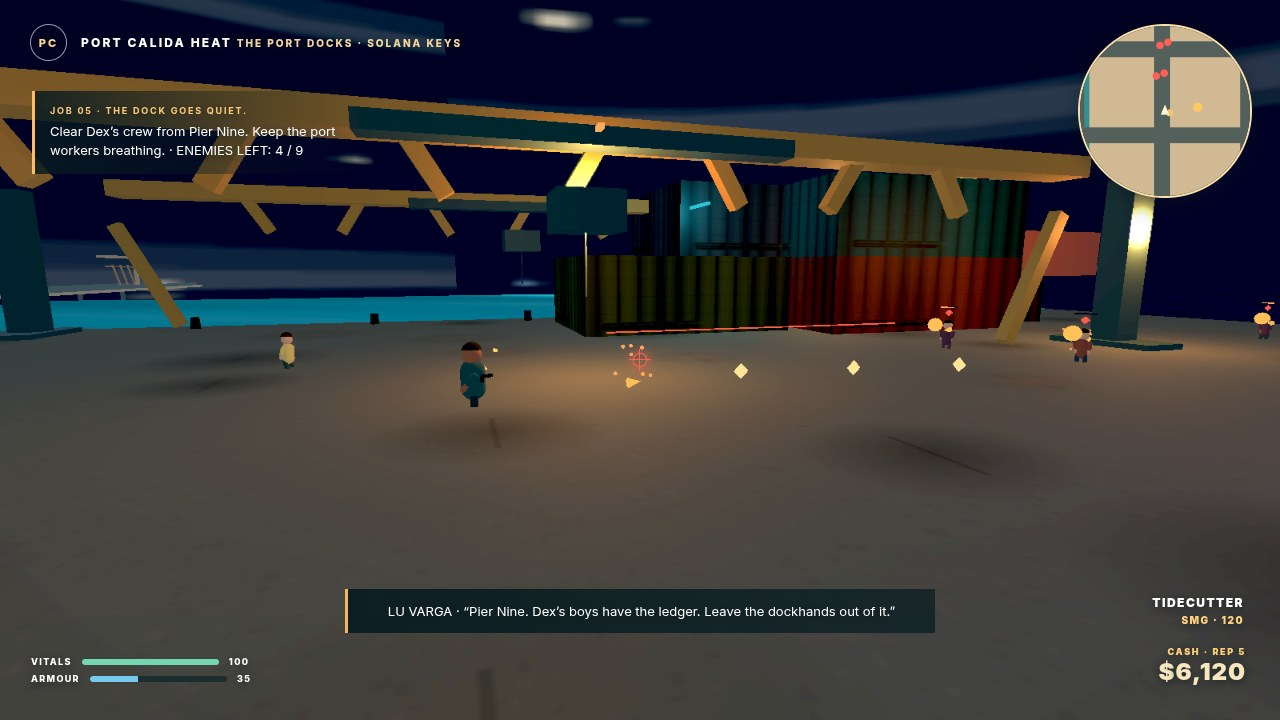
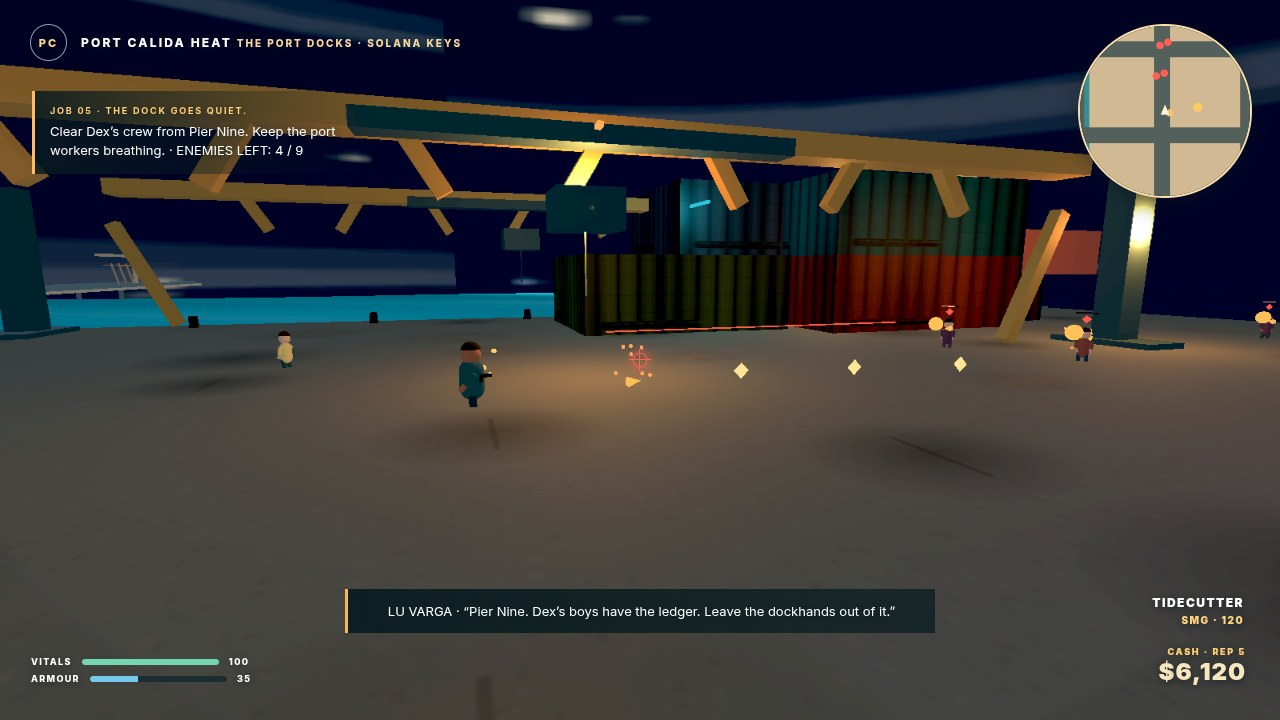
Restore pink sunset colour pipeline from 44f178a (keep coupe fix, dock night lights)

diff --git a/game/src/world/skyLighting.js b/game/src/world/skyLighting.js
@@ -2,29 +2,28 @@ import * as THREE from 'three';
 
 const presets = {
   day: {
-    sky: ['#064a86', '#1679b6', '#60afd0', '#e9d1a8', '#8ab0ba'],
-    fog: 0xb9cfd0, fogDensity: .00012, ambient: .9, sun: 3.5,
-    hemiSky: 0xaed8ee, hemiGround: 0x665c4d, sunColor: 0xfff0c2, exposure: 1.08,
+    sky: ['#28577a', '#79aab8', '#d2e0d9', '#f4d0a1', '#29495d'],
+    fog: 0xc3d3d0, fogDensity: .00048, ambient: .82, sun: 3.1,
+    hemiSky: 0xa9d5ee, hemiGround: 0x53624f, sunColor: 0xffe0a1,
   },
   golden: {
-    sky: ['#334f66', '#7e968c', '#477f9d', '#e3a873', '#ffc778', '#91aeb6', '#12375f'],
-    skyStops: [0, .4, .46, .49, .53, .58, 1],
-    fog: 0xadb9b3, fogDensity: .00024, ambient: .5, sun: 3.8,
-    hemiSky: 0x789bac, hemiGround: 0x555b54, sunColor: 0xffc27a, exposure: .98,
+    sky: ['#172f4a', '#594d69', '#c87579', '#f5ad7f', '#503a52'],
+    fog: 0xb77e79, fogDensity: .0008, ambient: .58, sun: 3.8,
+    hemiSky: 0x8e9bb8, hemiGround: 0x53434b, sunColor: 0xffbd72,
   },
   night: {
-    sky: ['#030a16', '#0a172b', '#101e36', '#17243b', '#101e36'],
-    fog: 0x101e36, fogDensity: .00062, ambient: 1.5, sun: .07,
-    hemiSky: 0x101e36, hemiGround: 0x29354a, sunColor: 0x9eb7df, exposure: 1.4,
+    sky: ['#071326', '#101f39', '#263750', '#594258', '#111a2d'],
+    fog: 0x101a2d, fogDensity: .00078, ambient: .34, sun: .07,
+    hemiSky: 0x6179a8, hemiGround: 0x1a2c46, sunColor: 0x789ad0,
   },
 };
 
-function makeSkyTexture(stops, night = false, stopPositions = null) {
+function makeSkyTexture(stops, night = false) {
   const canvas = document.createElement('canvas');
   canvas.width = 256; canvas.height = 512;
   const context = canvas.getContext('2d');
   const gradient = context.createLinearGradient(0, 0, 0, canvas.height);
-  stops.forEach((color, index) => gradient.addColorStop(stopPositions?.[index] ?? index / (stops.length - 1), color));
+  stops.forEach((color, index) => gradient.addColorStop(index / (stops.length - 1), color));
   context.fillStyle = gradient; context.fillRect(0, 0, canvas.width, canvas.height);
   context.globalAlpha = .1;
   for (let cloud = 0; cloud < 22; cloud++) {
@@ -53,27 +52,27 @@ function makeSkyTexture(stops, night = false, stopPositions = null) {
   return texture;
 }
 
-function makeEnvironmentTexture(stops, night = false, stopPositions = null) {
+function makeEnvironmentTexture(stops, night = false) {
   const canvas = document.createElement('canvas');
   canvas.width = 512; canvas.height = 256;
   const context = canvas.getContext('2d');
   const gradient = context.createLinearGradient(0, 0, 0, canvas.height);
-  stops.forEach((color, index) => gradient.addColorStop(stopPositions?.[index] ?? index / (stops.length - 1), color));
+  stops.forEach((color, index) => gradient.addColorStop(index / (stops.length - 1), color));
   context.fillStyle = gradient; context.fillRect(0, 0, canvas.width, canvas.height);
-  context.globalAlpha = .1;
-  context.fillStyle = '#f6f1df'; context.fillRect(0, 138, canvas.width, 3);
   context.globalAlpha = .12;
+  context.fillStyle = '#fff2db'; context.fillRect(0, 138, canvas.width, 3);
+  context.globalAlpha = .18;
   for (let i = 0; i < 13; i++) {
-    context.fillStyle = i % 2 ? '#d9e3df' : '#b7c8ce';
+    context.fillStyle = i % 2 ? '#f5c393' : '#b7c8ce';
     context.beginPath();
     context.ellipse(37 + i * 43, 74 + (i % 3) * 9, 25 + (i % 4) * 7, 5 + i % 3, 0, 0, Math.PI * 2);
     context.fill();
   }
   context.globalAlpha = 1;
   if (!night) {
-    const sunset = context.createRadialGradient(94, 130, 2, 94, 130, 48);
-    sunset.addColorStop(0, '#fff0c8'); sunset.addColorStop(.3, '#ffc27a'); sunset.addColorStop(1, 'rgba(255,194,122,0)');
-    context.fillStyle = sunset; context.fillRect(38, 82, 112, 96);
+    const sunset = context.createRadialGradient(94, 144, 2, 94, 144, 54);
+    sunset.addColorStop(0, '#fff0c1'); sunset.addColorStop(.24, '#ffb86e'); sunset.addColorStop(1, 'rgba(255,157,107,0)');
+    context.fillStyle = sunset; context.fillRect(36, 90, 116, 108);
   }
   context.globalAlpha = .12;
   context.fillStyle = '#172d3a';
@@ -93,15 +92,13 @@ export function createSkyLighting(scene, renderer, initialPreset = 'golden') {
   const pmrem = new THREE.PMREMGenerator(renderer);
   pmrem.compileEquirectangularShader();
   const skyMaterial = new THREE.MeshBasicMaterial({
-    map: makeSkyTexture(presets.golden.sky, false, presets.golden.skyStops), side: THREE.BackSide, depthWrite: false, fog: false,
+    map: makeSkyTexture(presets.golden.sky), side: THREE.BackSide, depthWrite: false, fog: false,
   });
   const skyDome = new THREE.Mesh(new THREE.SphereGeometry(850, 32, 24), skyMaterial);
   scene.add(skyDome);
   const hemi = new THREE.HemisphereLight(0xa9d5ee, 0x53624f, 1);
   scene.add(hemi);
-  const nightFill = new THREE.AmbientLight(0xb2bfd4, 0);
-  scene.add(nightFill);
-  const sun = new THREE.DirectionalLight(0xffc27a, 2.45);
+  const sun = new THREE.DirectionalLight(0xffe0a1, 2.45);
   sun.position.set(-180, 260, 100); sun.castShadow = true;
   sun.shadow.mapSize.set(1024, 1024);
   sun.shadow.camera.left = -240; sun.shadow.camera.right = 240;
@@ -132,17 +129,17 @@ export function createSkyLighting(scene, renderer, initialPreset = 'golden') {
   renderer.shadowMap.type = THREE.PCFSoftShadowMap;
   renderer.outputColorSpace = THREE.SRGBColorSpace;
   renderer.toneMapping = THREE.ACESFilmicToneMapping;
-  renderer.toneMappingExposure = presets[initialPreset]?.exposure ?? presets.golden.exposure;
+  renderer.toneMappingExposure = 1.16;
 
   function setPreset(name = 'golden') {
     const key = presets[name] ? name : 'golden';
     const preset = presets[key];
     skyMaterial.map?.dispose();
-    skyMaterial.map = makeSkyTexture(preset.sky, key === 'night', preset.skyStops);
+    skyMaterial.map = makeSkyTexture(preset.sky, key === 'night');
     skyMaterial.needsUpdate = true;
     environmentSource?.dispose();
     environmentTarget?.dispose();
-    environmentSource = makeEnvironmentTexture(preset.sky, key === 'night', preset.skyStops);
+    environmentSource = makeEnvironmentTexture(preset.sky, key === 'night');
     environmentTarget = pmrem.fromEquirectangular(environmentSource);
     scene.environment = environmentTarget.texture;
     scene.userData.reflectionTexture = environmentSource;
@@ -151,14 +148,12 @@ export function createSkyLighting(scene, renderer, initialPreset = 'golden') {
     hemi.color.setHex(preset.hemiSky);
     hemi.groundColor.setHex(preset.hemiGround);
     hemi.intensity = preset.ambient;
-    nightFill.intensity = key === 'night' ? 2.6 : 0;
-    renderer.toneMappingExposure = preset.exposure;
     sun.color.setHex(preset.sunColor);
     sun.intensity = preset.sun;
-    sun.position.y = key === 'golden' ? 60 : key === 'night' ? 75 : 255;
+    sun.position.y = key === 'golden' ? 115 : key === 'night' ? 75 : 255;
     streetlights.forEach(light => { light.intensity = key === 'night' ? 760 : key === 'golden' ? .5 : 0; });
     glow.visible = key !== 'night';
-    glow.material.color.setHex(key === 'day' ? 0xfff0cc : key === 'golden' ? 0xffc27a : 0xffbd9c);
+    glow.material.color.setHex(key === 'day' ? 0xfff0cc : 0xffbd9c);
     scene.userData.lightingPreset = key;
     return key;
   }
@@ -169,9 +164,7 @@ export function createSkyLighting(scene, renderer, initialPreset = 'golden') {
   const applyNightLighting = key => {
     const night = key === 'night';
     emissiveMaterials.forEach(material => {
-      material.emissiveIntensity = night
-        ? material.userData.nightEmissive ?? .65
-        : key === 'golden' ? material.userData.goldenEmissive ?? .12 : material.userData.dayEmissive ?? .12;
+      material.emissiveIntensity = night ? material.userData.nightEmissive ?? .65 : material.userData.dayEmissive ?? .12;
     });
     scene.background = new THREE.Color(presetColor(key));
     if (night) scene.fog.color.set(tintNight);

diff --git a/game/src/world/props.js b/game/src/world/props.js
@@ -2,9 +2,9 @@ import * as THREE from 'three';
 
 export function createOceanMaterial(preset = 'golden', reflectionTexture = null) {
   const palettes = {
-    day: [0x087f9d, 0x075768, 0xfff0c2],
-    golden: [0x087f9d, 0x075768, 0xffe2b0],
-    night: [0x087f9d, 0x075768, 0x38c7d9],
+    day: [0x087f9d, 0x04344d, 0x81d8e3],
+    golden: [0x087087, 0x063144, 0xffbd72],
+    night: [0x064264, 0x020d20, 0x5297d5],
   };
   const colors = palettes[preset] ?? palettes.golden;
   const material = new THREE.ShaderMaterial({
@@ -13,7 +13,6 @@ export function createOceanMaterial(preset = 'golden', reflectionTexture = null)
       uShallow: { value: new THREE.Color(colors[0]) },
       uDeep: { value: new THREE.Color(colors[1]) },
       uGlint: { value: new THREE.Color(colors[2]) },
-      uSunDirection: { value: new THREE.Vector3(-.5, .72, .35).normalize() },
       uEnvironment: { value: reflectionTexture },
     },
     vertexShader: `
@@ -43,7 +42,6 @@ export function createOceanMaterial(preset = 'golden', reflectionTexture = null)
       uniform vec3 uShallow;
       uniform vec3 uDeep;
       uniform vec3 uGlint;
-      uniform vec3 uSunDirection;
       uniform sampler2D uEnvironment;
       uniform float uTime;
       varying vec3 vWorldPosition;
@@ -61,11 +59,8 @@ export function createOceanMaterial(preset = 'golden', reflectionTexture = null)
         reflection = mix(uDeep, reflection, .28);
         float ripple = sin(vWorldPosition.x * 0.12 + vWorldPosition.z * 0.08 + uTime * 1.2) * 0.022;
         float sunGlint = pow(max(0.0, sin(vWorldPosition.x * 0.027 + vWorldPosition.z * 0.018 + uTime * 0.36)), 15.0);
-        vec3 halfDirection = normalize(viewDirection + normalize(uSunDirection));
-        float specular = pow(max(dot(normalize(vWorldNormal), halfDirection), 0.0), 96.0);
         vec3 color = water + vec3(ripple + vWave * 0.035);
         color = mix(color, reflection + uGlint * .16, fresnel * .48 + sunGlint * .12);
-        color += uGlint * (specular * 2.4 + sunGlint * .55);
         gl_FragColor = vec4(color, 1.0);
         #include <tonemapping_fragment>
         #include <colorspace_fragment>

diff --git a/game/src/rendering/postprocessing.js b/game/src/rendering/postprocessing.js
@@ -92,7 +92,11 @@ export class ShaderPass {
         vec3 bloom = texture2D(tBloom, vUv).rgb;
         color += bloom * uBloomStrength;
 
-        color = (color - .5) * 1.035 + .5;
+        float shade = 1.0 - smoothstep(.16, .78, calcLuma(color));
+        color += vec3(-.006, -.003, .008) * shade;
+        float light = smoothstep(.25, .92, calcLuma(color));
+        color += vec3(.014, .006, -.012) * light;
+        color = (color - .5) * 1.065 + .5;
 
         vec2 ray = uSun - vUv;
         vec3 shafts = vec3(0.0);
@@ -107,7 +111,7 @@ export class ShaderPass {
         color += shafts * uShaftStrength * edgeFade * .0018;
 
         float vignette = 1.0 - smoothstep(.28, .92, length((vUv - .5) * vec2(1.0, .92)));
-        color *= mix(.88, 1.0, vignette);
+        color *= mix(.76, 1.0, vignette);
         if (uCinematicFocus > .5) {
           vec2 offset = (vUv - .5) * .0012;
           vec3 soft = texture2D(tDiffuse, vUv + offset).rgb * .25;

diff --git a/game/src/world/buildings.js b/game/src/world/buildings.js
@@ -1,7 +1,7 @@
 import * as THREE from 'three';
 import { CITY, COLORS } from '../config.js';
 
-const facade = [0xd9c3a0, 0xf17e78, 0xf6b18f, 0xf4f0e8, 0x91adb1, 0xe7bd87];
+const facade = [0xd9c3a0, 0xf0a18b, 0xc3b89e, 0x91adb1, 0xe7bd87, 0xd88783];
 
 function windowTexture(random, tint) {
   const canvas = document.createElement('canvas');
@@ -68,7 +68,6 @@ export function addBuildings(scene, random) {
       emissive: 0xffb76b, emissiveIntensity: .12, roughness: .78, metalness: .04,
     });
     material.userData.dayEmissive = .1;
-    material.userData.goldenEmissive = .27;
     material.userData.nightEmissive = .95;
     scene.userData.registerNightMaterial?.(material);
     const body = new THREE.Mesh(new THREE.BoxGeometry(w, height, d), material);

diff --git a/game/src/shots.js b/game/src/shots.js
@@ -46,6 +46,9 @@ function addDockCover(scene, game, preset) {
   const quay = new THREE.Mesh(new THREE.BoxGeometry(100, .65, 172), concreteMaterial);
   quay.position.set(-365, -.03, 151); quay.receiveShadow = true; scene.add(quay);
   const water = createOceanMaterial(preset, scene.userData.reflectionTexture);
+  water.uniforms.uShallow.value.setHex(preset === 'night' ? 0x063655 : 0x075065);
+  water.uniforms.uDeep.value.setHex(0x041c31);
+  water.uniforms.uGlint.value.setHex(preset === 'day' ? 0x54aeb4 : 0xffa866);
   game.waterMaterials.push(water);
   const sea = new THREE.Mesh(new THREE.PlaneGeometry(86, 190, 48, 92), water);
   sea.rotation.x = -Math.PI / 2; sea.position.set(-458, -.1, 151); scene.add(sea);
